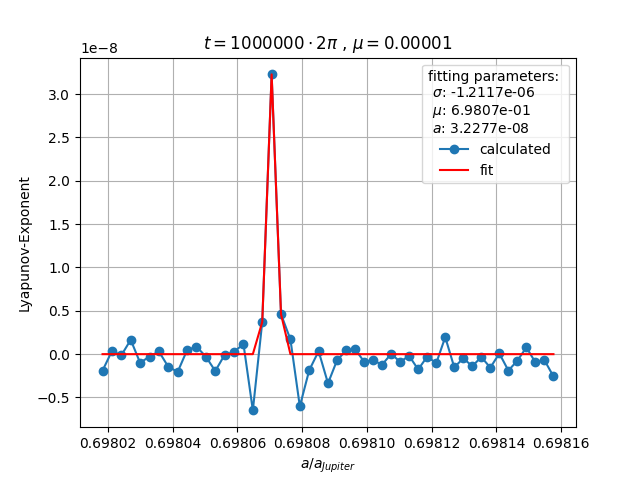
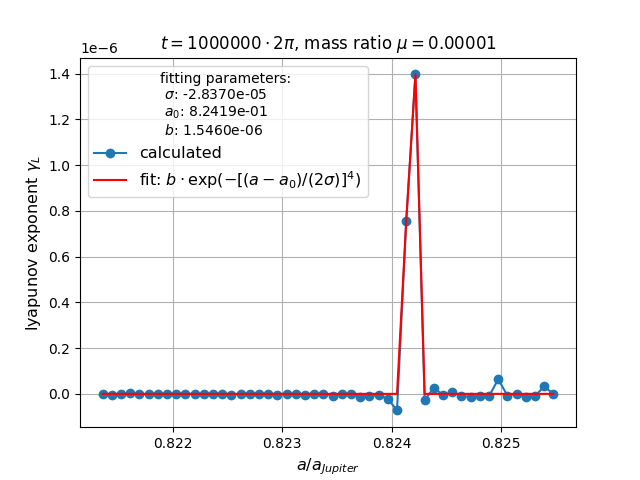
modify for different resonance, commenting

diff --git a/python/resonance_width.py b/python/resonance_width.py
@@ -6,6 +6,7 @@ import matplotlib
 import matplotlib.pyplot as plt
 from plotting_programs import plotlyapunov_a
 from scipy.optimize import curve_fit
+from lyapunov_exponent import hill_sphere_radius,orbit_ratio
 #---------------------------------
 a_resonants = np.array([0.697956,0.697910,0.697700,0.697498,0.697155,0.696579])
 #--------------- functions for fitting --------------------------------
@@ -48,14 +49,18 @@ def a_resonant(mu):
     # erg = b*(1-c2*mu**(1/2))
     erg = b+a*mu
     return erg
-def pres_res_width(m):
+def presumed_res_width(m):
     return 0.15*(m**(2/3))
 def semimajors_surrounding(mu,a_steps):
-    a_res = a_resonant(mu)
-    c = pres_res_width(mu)
-    C = np.linspace(a_res-c, a_res, int(a_steps/2)-1, endpoint = False)
-    D = np.linspace(a_res, a_res+c, int(a_steps/2)+1, endpoint = True)
-    A = np.concatenate((C,D), axis=0)
+    a_res = orbit_ratio(3,4)
+    a_start = a_res*0.995
+    a_end = a_res*1.0
+    A = np.linspace(a_start,a_end,a_steps)
+    # a_res = a_resonant(mu)
+    # c = presumed_res_width(mu)
+    # C = np.linspace(a_res-c, a_res, int(a_steps/2)-1, endpoint = False)
+    # D = np.linspace(a_res, a_res+c, int(a_steps/2)+1, endpoint = True)
+    # A = np.concatenate((C,D), axis=0)
     return A
 #----------------- fitting of all calc. resonant widths ------------------------
 def multi_resonance_width_fit(rw,Mu):
@@ -113,48 +118,54 @@ def multi_resonance_width(a_steps,Mu,t):
     return Res_Widths
 #------------- plot all resonant widths with fit ---------------------
 def plot_res_widths(Res_Widths,Mu):
+    # SMALL_SIZE = 8
+    # matplotlib.rc('font', size=11)
     RWfit, params = multi_resonance_width_fit(Res_Widths,Mu)
     fig, ax1 = plt.subplots()
     alphastr = r'$\alpha$'
     betastr = r'$\beta$'
     ax1.set(xscale = 'log',yscale = 'log',
-            ylabel = 'Resonanzbreite (a.u.)',
-            xlabel = 'Massenverhältnis $\mu = m_{Planet}/m_{Star}$',
-            title = '7/12-Resonanz'
+            title = '7/12-resonance'
             )
+    plt.ylabel('resonance width ($a_{Jupiter}$)', fontsize=11.5)
+    plt.xlabel('mass ratio $\mu = m_{planet}/m_{star}$', fontsize=11.5)
     ax1.plot(Mu,Res_Widths,'o-',label='calculated')
     ax1.plot(Mu, RWfit,'r-',label=('fit: a$\mu^b$' ) )
     ax1.grid()
-    ax1.legend(title = ('fitting parameters: \n a: %.3e \n b: %.3e' %(params[0],params[1])))
+    leg = ax1.legend(fontsize = 12)
+    leg.set_title('fitting parameters: \n a: %.2e \n b: %.2e' %(params[0],params[1]),prop={'size':12})
     # ax1.ticklabel_format(axis="y", style="sci", scilimits = (-7,-4))
     return fig
 #------------- plot single resonant with fit ---------------------
 def plotsingles(L,A,params,mu):
     fig = plotlyapunov_a(L,A)
-    plt.title('$t = %3d \cdot  2\pi $ , $\mu = %.5f$' %(t,mu))
+    plt.title('$t = %d\cdot2\pi$, mass ratio $\mu = %.5f$' %(t,mu))
     fit = np.zeros(len(A))
     for i in range(len(A)):
          fit[i] = gaussian_4(A[i], *params)
-    plt.plot(A, fit, 'r-',label='fit')
-    plt.legend(title = 'fitting parameters: \n $\sigma$: %.4e \n $\mu$: %.4e \n $a$: %.4e' %(params[0],params[1],params[2]))
+    plt.plot(A, fit, 'r-',label='fit: $b\cdot\exp (-[(a-a_0)/(2\sigma)]^4)$')
+    leg = plt.legend(fontsize = 11.5)
+    leg.set_title('fitting parameters: \n $\sigma$: %.4e \n $a_0$: %.4e \n $b$: %.4e' %(params[0],params[1],params[2]))
     fig.savefig('resonance_width_plots/single_lyapunovs_over_a/lyap_exp_a_variation_%.6f.png' %(mu))
 #--------------------------------------------------------------
-t = 1e6  # t: Auswertungszeitpunkt
 
-a_start = 0.6955
-a_end = 0.6985
-a_steps = 50
-a_stepsize = (a_end - a_start)/a_steps
-# A = np.linspace(a_start, a_end, a_steps)
-# A: array großer Halbachsen
-mass_ratio_start = -5
-mass_ratio_end = -3
-mass_ratio_steps = 27
-Mu = np.logspace(mass_ratio_start,mass_ratio_end,mass_ratio_steps)
-# Mu: array von Massenverhältnissen
-print('Masses of largest Planet (Jupiter):\n', Mu)
 
 if __name__ == '__main__':
+    t = 1e6  # t: Auswertungszeitpunkt
+    n = 3
+    m = 4
+    a_start = orbit_ratio(n,m)*0.997
+    a_end = orbit_ratio(n,m)*1.0
+    a_steps = 50
+    a_stepsize = (a_end - a_start)/a_steps
+    # A = np.linspace(a_start, a_end, a_steps)
+    # A: array großer Halbachsen
+    mass_ratio_start = -5
+    mass_ratio_end = -4
+    mass_ratio_steps = 10
+    Mu = np.logspace(mass_ratio_start,mass_ratio_end,mass_ratio_steps)
+    # Mu: array von Massenverhältnissen
+    print('Masses of largest Planet (Jupiter):\n', Mu)
     reswidth = multi_resonance_width(a_steps, Mu, t)
     print('Resonance Width: \n',reswidth)
     fig1 = plot_res_widths(reswidth, Mu)

diff --git a/python/res_width_multiple_same_runs.py b/python/res_width_multiple_same_runs.py
@@ -1,0 +1,17 @@
+import sys
+sys.path.append('C:/Users/hannes/Documents/GitHub/n_body_sim_ws20201/python')
+import numpy as np
+n = 27
+molp = [1.00000000e-05, 1.19377664e-05, 1.42510267e-05, 1.70125428e-05,2.03091762e-05, 2.42446202e-05, 2.89426612e-05, 3.45510729e-05,4.12462638e-05, 4.92388263e-05, 5.87801607e-05, 7.01703829e-05,8.37677640e-05, 1.00000000e-04, 1.19377664e-04, 1.42510267e-04,1.70125428e-04, 2.03091762e-04, 2.42446202e-04, 2.89426612e-04,3.45510729e-04, 4.12462638e-04, 4.92388263e-04, 5.87801607e-04,7.01703829e-04, 8.37677640e-04, 1.00000000e-03]
+RW = np.zeros((5,n))
+RW[0,:]=[3.45253165e-06, 3.10722089e-06, 2.67791968e-06, 1.15162614e-05,1.48470702e-05, 6.11407672e-06, 2.37161460e-05, 3.38163944e-05,1.14327380e-05, 3.85325691e-05, 4.11267762e-05, 3.74246884e-05,4.74887502e-05, 4.60817289e-05, 4.75068817e-05, 5.85990428e-05,5.40764168e-05, 4.55168706e-05, 7.06244741e-05, 8.41243633e-05,8.79901411e-05, 9.04361203e-05, 8.51748266e-05, 1.07832620e-04,1.34058226e-04, 1.49946691e-04, 1.50928243e-04]
+RW[1,:]=[1.64317518e-05, 3.94154730e-07, 1.71084934e-06, 4.60462489e-06,5.56859825e-06, 4.11793631e-06, 1.32599722e-05, 3.45409042e-05,1.83445642e-05, 3.82515302e-05, 4.45786034e-05, 3.85812519e-05,4.43002139e-05, 5.14191321e-05, 4.74302060e-05, 5.99538218e-05,5.25663232e-05, 4.34706605e-05, 7.15748526e-05, 8.19478402e-05,8.77497158e-05, 9.04652005e-05, 8.21728284e-05, 1.07074124e-04,1.33777235e-04, 1.50524166e-04, 1.44689710e-04]
+RW[2,:]=[8.84066204e-07, 1.63485334e-06, 8.07103470e-06, 1.34239254e-05,3.79927639e-06, 2.11158001e-05, 2.92196256e-05, 3.71003132e-05,2.12442458e-05, 3.33456501e-05, 4.28779250e-05, 4.20309538e-05,4.49815061e-05, 4.75295125e-05, 4.76798608e-05, 6.05456072e-05,5.14189116e-05, 4.51821922e-05, 7.23315143e-05, 8.36701976e-05,8.78464444e-05, 9.01972241e-05, 9.04669728e-05, 1.08276812e-04,1.34749848e-04, 1.47085524e-04, 1.50151782e-04]
+RW[3,:]=[1.21166593e-06, 4.04351940e-06, 2.11129493e-06, 1.09394595e-05,5.55071420e-06, 9.30348921e-06, 2.18618673e-05, 2.12811301e-08,3.21015333e-05, 3.75430387e-05, 4.29746546e-05, 3.67246065e-05,4.14175185e-05, 4.77602398e-05, 4.34086938e-05, 5.72924860e-05,4.87868467e-05, 4.48343098e-05, 7.18010781e-05, 8.26344826e-05,8.57109849e-05, 9.35746234e-05, 8.89697685e-05, 1.08349765e-04,1.33962079e-04, 1.49257273e-04, 1.53971958e-04]
+RW[4,:]=[1.62997640e-05, 4.05261142e-06, 5.58206776e-06, 6.50918377e-06,4.14838132e-06, 2.33383378e-05, 2.23781302e-05, 1.01120242e-05,1.55425566e-05, 1.34971989e-05, 4.28624530e-05, 3.99314220e-05,3.20382618e-05, 5.65525805e-06, 4.54344939e-05, 5.41103696e-05,5.18458980e-05, 3.56672157e-05, 6.98260896e-05, 8.27282749e-05,8.74889766e-05, 9.20130520e-05, 8.78314509e-05, 1.09226918e-04,1.34415051e-04, 1.50566839e-04, 1.50133588e-04]
+RWA = np.mean(RW,axis=0)
+print(RWA)
+
+from resonance_width import plot_res_widths,multi_resonance_width_fit
+fig = plot_res_widths(RWA,molp)
+fig.savefig('averaged resonance widths.png')

diff --git a/python/plotting_programs.py b/python/plotting_programs.py
@@ -3,7 +3,7 @@ from matplotlib import cm
 from matplotlib.colors import LogNorm
 
 import numpy as np
-from lyapunov_exponent import hill_sphere_radius
+from lyapunov_exponent import hill_sphere_radius,orbit_ratio
 #--------------- plotlyapunov_t --------------------
 # lyapunov und zeit
 def plotlyapunov_t(lyapunov, times, k):
@@ -21,9 +21,8 @@ def plotlyapunov_t(lyapunov, times, k):
 # lyapunov-exponent und große Halbachse
 def plotlyapunov_a(l,a):
     fig, ax1 = plt.subplots(1,1)
-    ax1.set(ylabel = 'Lyapunov-Exponent',
-            xlabel = '$a$/$a_{Jupiter}$'
-            )
+    plt.ylabel('lyapunov exponent $\gamma_L$', fontsize=11.5)
+    plt.xlabel('$a$/$a_{Jupiter}$', fontsize=11.5)
     ax1.plot(a,l,'o-', label='calculated')
     ax1.grid()
     # fig.savefig('plots/lyapunov_a.png')
@@ -32,7 +31,7 @@ def plotlyapunov_a(l,a):
 # lyapunov-exponent und Exzentrizitäten
 def plotlyapunov_e(l,e):
     fig, ax1 = plt.subplots(1,1)
-    ax1.set(ylabel = 'Lyapunov-Exponent',
+    ax1.set(ylabel = 'lyapunov exponent',
             xlabel = 'Exzentrizität $e$')
     ax1.plot(e,l,'o-')
     ax1.grid()
@@ -42,9 +41,8 @@ def plotlyapunov_e(l,e):
 def plotlyapunov_m(l,m):
     fig, ax1 = plt.subplots(1,1)
     ax1.set_xscale('log')
-    ax1.set(ylabel = 'Lyap.-Expo.',
-            xlabel = '$m$/$M_{Helga}$'
-            )
+    plt.ylabel('Lyap.-Expo.', fontsize=11.5)
+    plt.xlabel('$m$/$M_{Helga}$', fontsize=11.5)
     if isinstance(l,list):
         n_l = len(l)
         for i in range(n_l):
